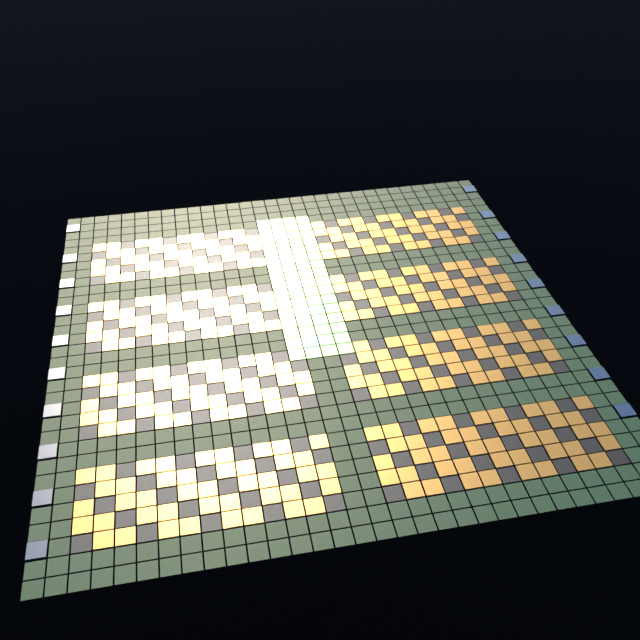
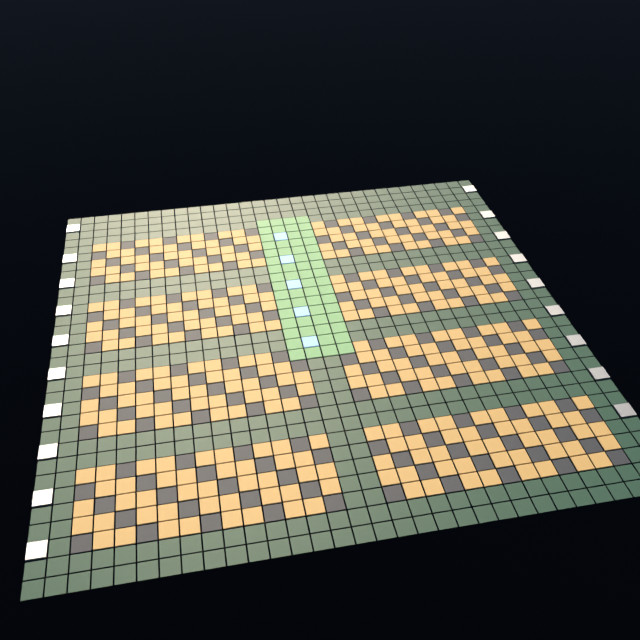
Zona protótipo a partir da camada de cache e realismo no Blender
- zona jogável gerada da grade da camada LLC: bancos de cache como paredes,
  substrato e trilhas como caminhos, anel como borda, itens e passagem de volta
  em células alcançáveis, com a paleta da zona de cache
- entrada pela tela de camadas (Enter); testes de conectividade e itens
- Blender: silícios como dielétricos, metais com rugosidade maior, luz especular
  reduzida; comparação antes e depois em tools/blender
- GDD: direção de design (o jogo é o processador) e medições (Rodada 15)

Claude-Session: https://claude.ai/code/session_01AkGYUh27AKnv2JNhvAdV3R

diff --git a/python/anelzero/layers.py b/python/anelzero/layers.py
@@ -242,3 +242,96 @@ def layer_image(layer_id, cell=10):
                     img.setXel(x * cell + dx, y * cell + dy, r, g, b)
     return img
 
+
+
+# ---- Zona jogável a partir de uma camada ----
+
+WALL_CODES = {"x", "c", "C", "d", "R"}   # bancos de cache, bits e anel: bloqueiam
+FLOOR_CODES = {"G", "B", "v"}            # substrato entre os blocos, trilhas e vias: andam
+
+
+def _layer_zone_map(layer_id, seed_offset=0):
+    """Mapa jogável: paredes '#', caminhos '.', trilhas '=' (cores da zona)."""
+    rows = layer_rows(layer_id)
+    out = []
+    for row in rows:
+        line = []
+        for ch in row:
+            if ch in WALL_CODES:
+                line.append("#")
+            elif ch == "B":
+                line.append("=")
+            elif ch in FLOOR_CODES:
+                line.append(".")
+            else:
+                line.append("#")
+        out.append("".join(line))
+    return out
+
+
+def _bfs(rows, start):
+    seen = {start}
+    queue = [start]
+    while queue:
+        c, r = queue.pop(0)
+        for dc, dr in ((1, 0), (-1, 0), (0, 1), (0, -1)):
+            n = (c + dc, r + dr)
+            if n in seen or not (0 <= n[1] < len(rows) and 0 <= n[0] < len(rows[0])):
+                continue
+            if rows[n[1]][n[0]] in ".=":
+                seen.add(n)
+                queue.append(n)
+    return seen
+
+
+def zone_entry(layer_id, base_zone, zone_id=None, name=None):
+    """Entrada de zona (mesmo formato de zones.json) construída a partir de uma camada do processador.
+
+    base_zone: zona de referência (tema, inimigos e música). Paredes, caminhos, spawn, itens e a
+    passagem de volta ficam na grade da camada, então o mapa é o desenho da camada.
+    """
+    zone_id = zone_id or f"camada_{layer_id}"
+    rows = _layer_zone_map(layer_id)
+    h, w = len(rows), len(rows[0])
+    # ponto inicial: caminho alcançável mais próximo do centro da parte de baixo
+    floor = [(c, r) for r in range(h) for c in range(w) if rows[r][c] in ".="]
+    target = (w // 2, h - 4)
+    spawn = min(floor, key=lambda p: abs(p[0] - target[0]) + abs(p[1] - target[1]))
+    reach = sorted(_bfs(rows, spawn), key=lambda p: abs(p[0] - spawn[0]) + abs(p[1] - spawn[1]))
+    grid = [list(r) for r in rows]
+    gc, gr = spawn
+    grid[gr][gc] = "S"
+    # passagem de volta para a zona de cache: caminho mais distante, que ainda está alcançável
+    portal = reach[-1]
+    grid[portal[1]][portal[0]] = "A"
+    # itens espalhados pela área alcançável (espaçados por distância mínima)
+    placed = []
+    markers = {"S": {"type": "spawn"}, "A": {"type": "portal", "to": "cache"}}
+    item_chars = [("k", "capacitor"), ("f", "fio_cobre"), ("l", "liga_ferrugem"), ("q", "cristal_silicio")]
+    for k, (ch, item) in enumerate(item_chars):
+        for c, r in reach[len(reach) // 4:]:
+            if grid[r][c] != "." or any(abs(c - pc) + abs(r - pr) < 6 for pc, pr in placed):
+                continue
+            grid[r][c] = ch
+            placed.append((c, r))
+            markers[ch] = {"type": "pickup", "item": item}
+            break
+    # um baú extra num caminho alcançável
+    for c, r in reach[len(reach) // 2:]:
+        if grid[r][c] == ".":
+            grid[r][c] = "x"
+            markers["x"] = {"type": "chest", "extra": True}
+            break
+    base = base_zone or {}
+    return {
+        "id": zone_id,
+        "name": name or f"Camada: {next(l['name'] for l in LAYERS if l['id'] == layer_id)}",
+        "music": base.get("music", "wind"),
+        "encounter": base.get("encounter", 0.02),
+        "theme": dict(base.get("theme", {})),
+        "enemies": list(base.get("enemies", [])),
+        "decor": base.get("decor", "pins"),
+        "markers": markers,
+        "map": ["".join(r) for r in grid],
+        "layer": layer_id,
+    }

diff --git a/tools/blender/render_layers.py b/tools/blender/render_layers.py
@@ -50,19 +50,19 @@ def make_material(name, color, metallic=0.0, roughness=0.4, emission=0.0):
 
 
 MATERIALS = {
-    "cobre": make_material("cobre", (0.85, 0.52, 0.3), 1.0, 0.22),
-    "cobre_polido": make_material("cobre_polido", (0.95, 0.66, 0.45), 1.0, 0.08),
-    "ouro": make_material("ouro", (0.9, 0.72, 0.35), 1.0, 0.25),
-    "ouro_emissivo": make_material("ouro_emissivo", (1.0, 0.8, 0.3), 1.0, 0.2, emission=2.5),
-    "prata": make_material("prata", (0.85, 0.87, 0.9), 1.0, 0.18),
-    "silicio_cache": make_material("silicio_cache", (0.12, 0.22, 0.38), 0.6, 0.35),
-    "silicio_bit": make_material("silicio_bit", (0.3, 0.55, 0.85), 0.5, 0.25, emission=0.4),
-    "silicio_logica": make_material("silicio_logica", (0.2, 0.42, 0.22), 0.5, 0.4),
-    "silicio_escuro": make_material("silicio_escuro", (0.05, 0.06, 0.08), 0.5, 0.5),
-    "silicio_exec": make_material("silicio_exec", (0.55, 0.38, 0.16), 0.6, 0.35),
-    "silicio_mem": make_material("silicio_mem", (0.4, 0.18, 0.5), 0.6, 0.3),
-    "silicio_energia": make_material("silicio_energia", (0.62, 0.22, 0.14), 0.5, 0.4),
-    "silicio_ponte": make_material("silicio_ponte", (0.25, 0.25, 0.6), 0.6, 0.3),
+    "cobre": make_material("cobre", (0.62, 0.36, 0.22), 1.0, 0.38),
+    "cobre_polido": make_material("cobre_polido", (0.7, 0.45, 0.3), 1.0, 0.25),
+    "ouro": make_material("ouro", (0.66, 0.5, 0.24), 1.0, 0.4),
+    "ouro_emissivo": make_material("ouro_emissivo", (1.0, 0.8, 0.3), 1.0, 0.3, emission=2.5),
+    "prata": make_material("prata", (0.42, 0.44, 0.47), 1.0, 0.5),
+    "silicio_cache": make_material("silicio_cache", (0.12, 0.22, 0.38), 0.05, 0.62),
+    "silicio_bit": make_material("silicio_bit", (0.3, 0.55, 0.85), 0.05, 0.62, emission=0.4),
+    "silicio_logica": make_material("silicio_logica", (0.2, 0.42, 0.22), 0.05, 0.62),
+    "silicio_escuro": make_material("silicio_escuro", (0.05, 0.06, 0.08), 0.05, 0.62),
+    "silicio_exec": make_material("silicio_exec", (0.55, 0.38, 0.16), 0.05, 0.62),
+    "silicio_mem": make_material("silicio_mem", (0.4, 0.18, 0.5), 0.05, 0.62),
+    "silicio_energia": make_material("silicio_energia", (0.62, 0.22, 0.14), 0.05, 0.62),
+    "silicio_ponte": make_material("silicio_ponte", (0.25, 0.25, 0.6), 0.05, 0.62),
     "substrato": make_material("substrato", (0.03, 0.1, 0.07), 0.0, 0.55),
 }
 
@@ -122,6 +122,7 @@ def setup_scene():
     sun = bpy.data.lights.new("sun", "SUN")
     sun.energy = 1.0
     sun.angle = math.radians(2.0)
+    sun.specular_factor = 0.3  # menos brilho especular: some o branco estourado nos metais
     sun_obj = bpy.data.objects.new("sun", sun)
     bpy.context.collection.objects.link(sun_obj)
     sun_obj.rotation_euler = (math.radians(48), math.radians(14), math.radians(32))

diff --git a/python/tests/test_layers.py b/python/tests/test_layers.py
@@ -53,3 +53,38 @@ class Legend(unittest.TestCase):
     def test_layer_image_size(self):
         img = L.layer_image("dissipador", cell=4)
         self.assertEqual((img.getXSize(), img.getYSize()), (L.SIZE * 4, L.SIZE * 4))
+
+
+class LayerZone(unittest.TestCase):
+    """A zona construída a partir da camada de cache passa pelas mesmas regras das outras zonas."""
+
+    @classmethod
+    def setUpClass(cls):
+        from anelzero import content as C
+        cls.zone = C.ZONES[C.LAYER_ZONE_IDS["llc"]]
+        cls.rows = cls.zone["map"]
+
+    def test_is_registered_zone_with_map_and_theme(self):
+        self.assertEqual(self.zone["layer"], "llc")
+        self.assertEqual(len(self.rows), L.SIZE)
+        self.assertTrue(self.zone["theme"].get("trace"))
+
+    def test_spawn_and_portal_reachable(self):
+        from anelzero import world as W
+        z = W.load(self.zone["id"])
+        reach = z.reachable(z.spawn())
+        self.assertGreater(len(reach), 200)
+        for c, r, m in z.portals():
+            self.assertIn((c, r), reach)
+
+    def test_items_reachable(self):
+        from anelzero import world as W
+        z = W.load(self.zone["id"])
+        reach = z.reachable(z.spawn())
+        for c, r, m in z.pickups():
+            self.assertIn((c, r), reach)
+
+    def test_portal_goes_back_to_cache(self):
+        from anelzero import world as W
+        z = W.load(self.zone["id"])
+        self.assertTrue(all(m["to"] == "cache" for _c, _r, m in z.portals()))

diff --git a/python/anelzero/client.py b/python/anelzero/client.py
@@ -1362,11 +1362,32 @@ class Game(ShowBase):
         if name == "escape":
             self.close_layers()
             return
+        if name in CONFIRM_KEYS:
+            self.travel_to_layer(LY.LAYERS[self.layer_index]["id"])
+            return
         if name in ("arrow_right", "d", "arrow_down", "s"):
             self.layer_index = (self.layer_index + 1) % n
         elif name in ("arrow_left", "a", "arrow_up", "w"):
             self.layer_index = (self.layer_index - 1) % n
         self._refresh_layers()
+
+    def travel_to_layer(self, layer_id):
+        """Entra na zona jogável da camada (se a camada tiver uma)."""
+        zid = C.LAYER_ZONE_IDS.get(layer_id)
+        if zid is None:
+            self.say("Esta camada ainda não é uma zona jogável.", 2.5)
+            return
+        self.close_layers()
+        self.begin_transition(lambda z=zid: self._enter_zone(z))
+
+    def _enter_zone(self, zid):
+        self.mode = "play"
+        self._show_title(False)
+        self.player.show()
+        self.player_shadow.show()
+        self.minimap_img.show()
+        self.load_zone(zid, None)
+        self.say(C.ZONES[zid]["name"], 2.5)
 
     def _layer_texture(self, layer_id):
         """Textura da camada: a imagem renderizada no Blender, ou a grade própria se ela não existir."""

diff --git a/python/anelzero/content.py b/python/anelzero/content.py
@@ -37,6 +37,14 @@ ZONE_LOOT = _loot["ZONE_LOOT"]
 ZONES = _zones["ZONES"]
 START_ZONE = _zones["START_ZONE"]
 
+# Zonas construídas a partir das camadas do processador (mesma grade da tela de camadas)
+from . import layers as _layers  # noqa: E402
+LAYER_ZONE_IDS = {}
+for _lid in ("llc",):
+    _entry = _layers.zone_entry(_lid, ZONES["cache"])
+    ZONES[_entry["id"]] = _entry
+    LAYER_ZONE_IDS[_lid] = _entry["id"]
+
 
 def ending_lines(kind, flags):
     """Texto do final conforme a missão extra do Núcleo foi cumprida (port de endingLines)."""

diff --git a/docs/GDD.md b/docs/GDD.md
@@ -384,3 +384,22 @@ Os dois motores não se comparam entre si. As variações em relação à rodada
 | `tests/perf.mjs` | Chromium headless, 360×740, software; cena inteira / só o jogador | 28,3 FPS (54 chamadas, 10 584 triângulos) / 60,3 FPS |
 
 A tela de camadas não aparece durante a exploração, então as medições de exploração não mudam por causa dela. Os números variam dentro do ruído da máquina.
+
+## Rodada 15: o jogo é o processador (direção) e a zona da camada
+
+**Direção de design:** o jogo inteiro acontece dentro de um processador. Todo o mapa é o processador: cada camada (dissipador, fiação, cache, núcleo, memória, energia, interposer, substrato) é uma parte dele, e tudo o que existe no jogo (zonas, inimigos, itens, ferramentas) faz parte desse processador. O personagem usa ferramentas para melhorar o processador. Isso ainda não está implementado. O primeiro passo é a zona da camada de cache, e as ferramentas (reparo, reforço de cache, ajuste de energia) são a próxima etapa.
+
+- **Realismo no Blender:** os silícios passaram a dielétricos (metallic 0,05, rugosidade 0,62), o que eliminou o branco estourado nos blocos de energia e de lógica. Os metais (cobre, ouro) ganharam rugosidade maior, e a prata dos pinos ficou mais escura, com rugosidade 0,5. A luz especular do sol foi reduzida para 0,3. A comparação antes e depois está em `tools/blender/`: nos blocos vermelhos e verdes, o branco sumiu e a cor voltou.
+- **Limite:** ainda há um brilho leve nas esferas de solda da borda. Isso é esperado para metal e não foi tratado.
+- **Zona protótipo:** a camada de cache (LLC) virou uma zona jogável. Os bancos de cache são paredes, o substrato entre eles, as trilhas e as vias são caminhos, e o anel é a borda. O spawn, os itens e a passagem de volta são colocados em células alcançáveis. A paleta é a da zona de cache. A entrada é pela tela de camadas (Enter).
+- **Limites da zona:** as paredes são baixas em relação à câmera, e o corredor central domina a tela. Ainda não há inimigos específicos da camada, nem objetivos próprios.
+- **Testes:** a zona passa pelas regras das outras zonas (conectividade, itens alcançáveis, passagem de volta para a zona de cache).
+
+### Desempenho medido nesta rodada
+
+| Robô | Motor e condição | Resultado |
+|---|---|---|
+| `tools/bench_shadows.py` | Panda3D, Xvfb, CPU; sombra desligada / ligada | 6,87 / 13,31 ms por quadro (+6,43 ms, +94%) |
+| `tests/perf.mjs` | Chromium headless, 360×740, software; cena inteira / só o jogador | 32,5 FPS (52 chamadas, 10 560 triângulos) / 60,2 FPS |
+
+A zona da camada existe só na versão Python. O robô da web não tem essa zona, então não há medição dela no lado web. As medições acima são da cena inteira de cada versão, não da zona da camada.
